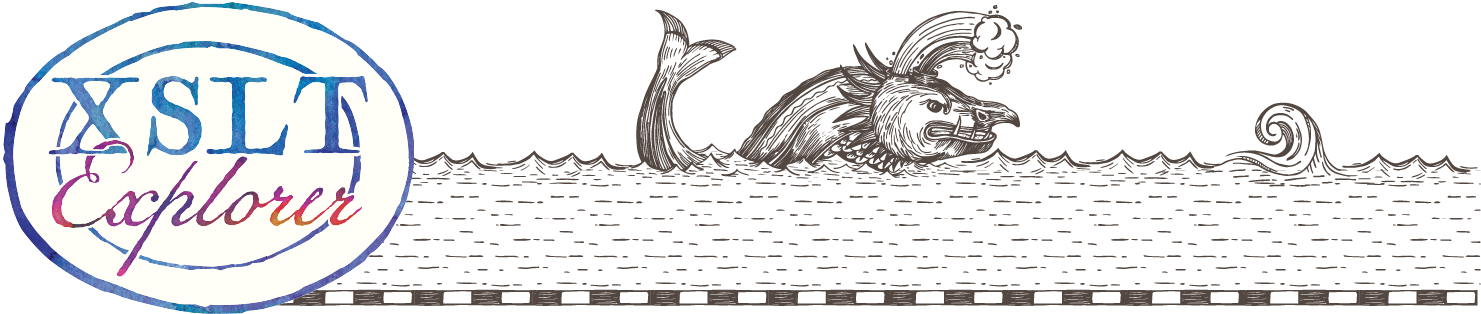
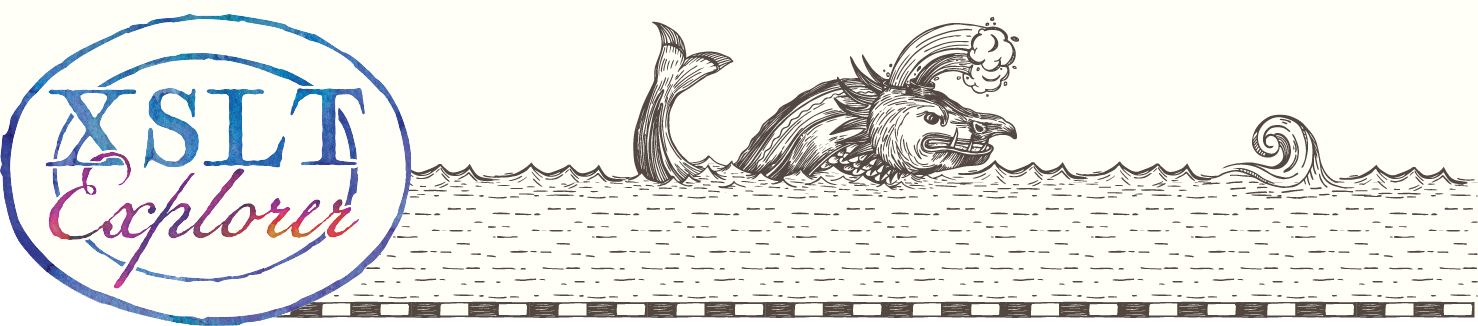
Tinkered with header

diff --git a/index.html b/index.html
@@ -45,13 +45,12 @@ h1,h2,h3,h4,h5,h6 {
     font-weight: bold;
 }
 header {
-    padding-top: 1rem;
+    padding-top: 0;
     margin-bottom: 3rem;
     position: sticky;
     z-index: 2;
     top: 0;
     opacity: 100%;
-    background-color: #fffff8;
 }
 header img {
     max-width: 100%;
